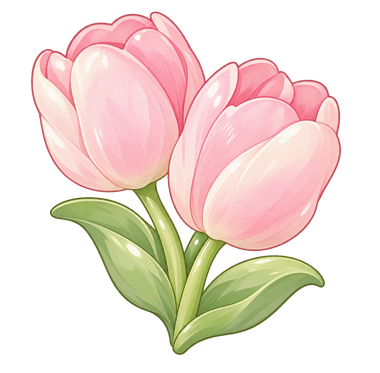
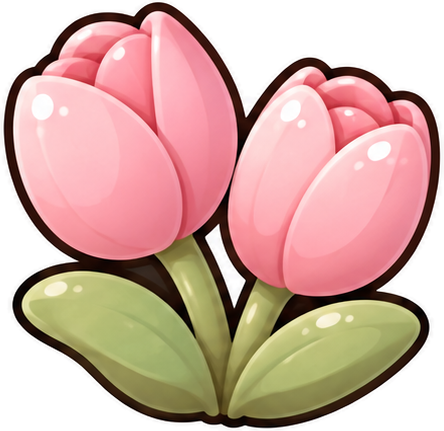
feat(decorations): replace realistic flowers with chibi fondant flower stickers

diff --git a/catalog.js b/catalog.js
@@ -1,1 +1,1 @@
-(function(root){const items={"pinkbase": {"name": "草莓蛋糕胚", "group": "base", "asset": "extras/pinkbase", "section": "base", "size": [360, 184], "gift": 8}, "wholeberry": {"name": "大颗草莓", "group": "decoration", "asset": "extras/wholeberry", "section": "fruit", "size": [65, 78], "gift": 8}, "halfberry": {"name": "半颗草莓", "group": "decoration", "asset": "extras/halfberry", "section": "fruit", "size": [65, 78], "gift": 8}, "slices": {"name": "草莓切片", "group": "decoration", "asset": "extras/slices", "section": "fruit", "size": [72, 70], "gift": 8}, "blueberry": {"name": "蓝莓", "group": "decoration", "asset": "extras/blueberry", "section": "fruit", "size": [72, 70], "gift": 8}, "raspberry": {"name": "树莓", "group": "decoration", "asset": "extras/raspberry", "section": "fruit", "size": [72, 70], "gift": 8}, "cherry": {"name": "樱桃", "group": "decoration", "asset": "extras/cherry", "section": "fruit", "size": [72, 70], "gift": 8}, "mango": {"name": "芒果块", "group": "decoration", "asset": "extras/mango", "section": "fruit", "size": [72, 70], "gift": 8}, "kiwi": {"name": "猕猴桃", "group": "decoration", "asset": "extras/kiwi", "section": "fruit", "size": [72, 70], "gift": 8}, "orange": {"name": "橙片", "group": "decoration", "asset": "extras/orange", "section": "fruit", "size": [72, 70], "gift": 8}, "banana": {"name": "香蕉片", "group": "decoration", "asset": "extras/banana", "section": "fruit", "size": [72, 70], "gift": 8}, "grape": {"name": "青提", "group": "decoration", "asset": "extras/grape", "section": "fruit", "size": [72, 70], "gift": 8}, "peach": {"name": "蜜桃片", "group": "decoration", "asset": "extras/peach", "section": "fruit", "size": [72, 70], "gift": 8}, "fruitpile": {"name": "缤纷水果堆", "group": "decoration", "asset": "extras/fruitpile", "section": "fruit", "size": [120, 72], "gift": 8}, "mintleaf": {"name": "薄荷叶", "group": "decoration", "asset": "extras/mintleaf", "section": "fruit", "size": [61, 38], "gift": 8}, "cookie-disc": {"name": "圆饼干", "group": "decoration", "asset": "extras/cookie-disc", "section": "sweet", "size": [72, 57], "gift": 8}, "choco-pieces": {"name": "巧克力块组", "group": "decoration", "asset": "extras/choco-pieces", "section": "sweet", "size": [75, 54], "gift": 8}, "choco-curl": {"name": "巧克力卷", "group": "decoration", "asset": "extras/choco-curl", "section": "sweet", "size": [72, 57], "gift": 8}, "wafer": {"name": "威化卷", "group": "decoration", "asset": "extras/wafer", "section": "sweet", "size": [88, 47], "gift": 8}, "macaron": {"name": "草莓马卡龙", "group": "decoration", "asset": "extras/macaron", "section": "sweet", "size": [74, 61], "gift": 8}, "bearcookie": {"name": "小熊饼干", "group": "decoration", "asset": "extras/bearcookie", "section": "sweet", "size": [64, 64], "gift": 8}, "bunnycookie": {"name": "小兔饼干", "group": "decoration", "asset": "extras/bunnycookie", "section": "sweet", "size": [58, 76], "gift": 8}, "heart": {"name": "爱心糖片", "group": "decoration", "asset": "extras/heart", "section": "sweet", "size": [50, 42], "gift": 8}, "star": {"name": "星星糖片", "group": "decoration", "asset": "extras/star", "section": "sweet", "size": [50, 45], "gift": 8}, "sprinkles": {"name": "彩色糖针", "group": "decoration", "asset": "extras/sprinkles", "section": "sweet", "size": [72, 39], "gift": 8}, "silverpearls": {"name": "银色糖珠", "group": "decoration", "asset": "extras/silverpearls", "section": "sweet", "size": [58, 42], "gift": 8}, "daisy": {"name": "雏菊糖花", "group": "decoration", "asset": "extras/daisy", "section": "sweet", "size": [57, 57], "gift": 8}, "sakura": {"name": "樱花糖片", "group": "decoration", "asset": "extras/sakura", "section": "sweet", "size": [57, 53], "gift": 8}, "bow": {"name": "粉色蝴蝶结", "group": "decoration", "asset": "extras/bow", "section": "sweet", "size": [73, 46], "gift": 8}, "catcandle": {"name": "猫猫蜡烛", "group": "decoration", "asset": "extras/catcandle", "section": "special", "size": [80, 124], "gift": 4}, "silvercatcandle": {"name": "银发猫猫蜡烛", "group": "decoration", "asset": "extras/silvercatcandle", "section": "special", "size": [112, 146], "gift": 4}, "twincandle": {"name": "蓝缎双烛", "group": "decoration", "asset": "extras/twincandle", "section": "special", "size": [88, 133], "gift": 4}, "pawtopper": {"name": "猫爪插牌", "group": "decoration", "asset": "extras/pawtopper", "section": "special", "size": [71, 94], "gift": 4}, "acorn": {"name": "橡果插牌", "group": "decoration", "asset": "extras/acorn", "section": "special", "size": [61, 104], "gift": 4}, "bowcharm": {"name": "白色缎带挂饰", "group": "decoration", "asset": "extras/bowcharm", "section": "special", "size": [64, 103], "gift": 4}, "catdessert": {"name": "猫猫布丁", "group": "decoration", "asset": "extras/catdessert", "section": "special", "size": [77, 85], "gift": 4}, "otter": {"name": "小水獭插牌", "group": "decoration", "asset": "extras/otter", "section": "special", "size": [70, 101], "gift": 4}, "kitten": {"name": "小橘猫插牌", "group": "decoration", "asset": "extras/kitten", "section": "special", "size": [78, 103], "gift": 4}, "sweet-sign": {"name": "甜蜜巧克力牌", "group": "decoration", "asset": "extras/sweet-sign", "section": "special", "size": [80, 87], "gift": 4}, "cream-swirl": {"name": "香草奶油尖", "group": "decoration", "asset": "extras/cream-swirl", "section": "piped", "size": [57, 56], "gift": 8}, "cream-star": {"name": "草莓星花", "group": "decoration", "asset": "extras/cream-star", "section": "piped", "size": [57, 54], "gift": 8}, "cream-shells": {"name": "贝壳花边", "group": "decoration", "asset": "extras/cream-shells", "section": "piped", "size": [92, 44], "gift": 8}, "cream-rose": {"name": "粉色玫瑰", "group": "decoration", "asset": "extras/cream-rose", "section": "piped", "size": [58, 56], "gift": 8}, "cream-leafstar": {"name": "抹茶星花", "group": "decoration", "asset": "extras/cream-leafstar", "section": "piped", "size": [55, 52], "gift": 8}, "cream-leaves": {"name": "奶油叶片", "group": "decoration", "asset": "extras/cream-leaves", "section": "piped", "size": [65, 43], "gift": 8}, "cream-wave": {"name": "紫色波浪", "group": "decoration", "asset": "extras/cream-wave", "section": "piped", "size": [94, 37], "gift": 8}, "choco-drop": {"name": "巧克力水滴", "group": "decoration", "asset": "extras/choco-drop", "section": "piped", "size": [45, 60], "gift": 8}, "cream-rope": {"name": "香草麻花", "group": "decoration", "asset": "extras/cream-rope", "section": "piped", "size": [95, 37], "gift": 8}, "cream-flower": {"name": "紫色奶油花", "group": "decoration", "asset": "extras/cream-flower", "section": "piped", "size": [55, 50], "gift": 8}, "bluefill": {"name": "蓝莓果肉夹心", "group": "filling", "asset": "extras/bowl-blueberry", "gift": 8}, "mangofill": {"name": "芒果块夹心", "group": "filling", "asset": "extras/bowl-mango", "gift": 8}, "beanfill": {"name": "蜜红豆夹心", "group": "filling", "asset": "extras/bowl-redbean", "gift": 8}, "capybara-candle": {"name": "水豚橘子蜡烛", "group": "decoration", "asset": "extras/capybara-candle", "section": "special", "size": [80, 100], "gift": 8}, "catpaw-macaron": {"name": "猫爪双色马卡龙", "group": "decoration", "asset": "extras/catpaw-macaron", "section": "sweet", "size": [74, 74], "gift": 8}, "rainbow-cloud": {"name": "彩虹云朵蜡烛", "group": "decoration", "asset": "extras/rainbow-cloud", "section": "special", "size": [80, 102], "gift": 8}, "twin-cherries": {"name": "连枝双子红樱桃", "group": "decoration", "asset": "extras/twin-cherries", "section": "fruit", "size": [74, 83], "gift": 8}, "caramel-bear": {"name": "焦糖小熊曲奇", "group": "decoration", "asset": "extras/caramel-bear", "section": "sweet", "size": [78, 70], "gift": 8}, "bunting-banner": {"name": "迷你三角拉旗插签", "group": "decoration", "asset": "extras/bunting-banner", "section": "special", "size": [96, 99], "gift": 8}, "pearl-tiara": {"name": "珍珠小皇冠", "group": "decoration", "asset": "extras/pearl-tiara", "section": "special", "size": [84, 70], "gift": 8}, "balloon-bunch": {"name": "马卡龙气球束", "group": "decoration", "asset": "extras/balloon-bunch", "section": "special", "size": [74, 100], "gift": 8}, "lion-dance": {"name": "萌萌小醒狮", "group": "decoration", "asset": "extras/lion-dance", "section": "special", "size": [82, 86], "gift": 8}, "gold-ingot": {"name": "发财金元宝", "group": "decoration", "asset": "extras/gold-ingot", "section": "sweet", "size": [82, 58], "gift": 8}, "lotus-blossom": {"name": "粉白小荷花", "group": "decoration", "asset": "extras/lotus-blossom", "section": "special", "size": [80, 68], "gift": 8}, "koi-fish": {"name": "萌萌小锦鲤", "group": "decoration", "asset": "extras/koi-fish", "section": "sweet", "size": [86, 70], "gift": 8}, "daisy-cluster": {"name": "白雏菊小花簇", "group": "decoration", "asset": "extras/daisy-cluster", "section": "sweet", "size": [82, 83], "gift": 8}, "pink-rose-cluster": {"name": "粉玫瑰花团", "group": "decoration", "asset": "extras/pink-rose-cluster", "section": "sweet", "size": [84, 84], "gift": 8}, "champagne-rose": {"name": "香槟白玫瑰束", "group": "decoration", "asset": "extras/champagne-rose", "section": "sweet", "size": [84, 83], "gift": 8}, "twin-tulips": {"name": "双生粉郁金香", "group": "decoration", "asset": "extras/twin-tulips", "section": "sweet", "size": [78, 76], "gift": 8}, "blue-hydrangea": {"name": "梦幻蓝紫绣球花", "group": "decoration", "asset": "extras/blue-hydrangea", "section": "sweet", "size": [84, 82], "gift": 8}, "babys-breath": {"name": "满天星丝带花束", "group": "decoration", "asset": "extras/babys-breath", "section": "sweet", "size": [80, 81], "gift": 8}, "eucalyptus-branch": {"name": "尤加利绿叶枝", "group": "decoration", "asset": "extras/eucalyptus-branch", "section": "fruit", "size": [76, 78], "gift": 8}, "rose-daisy-swag": {"name": "玫瑰雏菊角花堆", "group": "decoration", "asset": "extras/rose-daisy-swag", "section": "sweet", "size": [86, 84], "gift": 8}, "half-wreath": {"name": "半月形花环围边", "group": "decoration", "asset": "extras/half-wreath", "section": "sweet", "size": [110, 80], "gift": 8}, "cascading-sakura": {"name": "悬垂粉樱花蔓", "group": "decoration", "asset": "extras/cascading-sakura", "section": "sweet", "size": [74, 102], "gift": 8}};if(typeof module==='object')module.exports=items;else root.CakeExtras=items;})(globalThis);
+(function(root){const items={"pinkbase": {"name": "草莓蛋糕胚", "group": "base", "asset": "extras/pinkbase", "section": "base", "size": [360, 184], "gift": 8}, "wholeberry": {"name": "大颗草莓", "group": "decoration", "asset": "extras/wholeberry", "section": "fruit", "size": [65, 78], "gift": 8}, "halfberry": {"name": "半颗草莓", "group": "decoration", "asset": "extras/halfberry", "section": "fruit", "size": [65, 78], "gift": 8}, "slices": {"name": "草莓切片", "group": "decoration", "asset": "extras/slices", "section": "fruit", "size": [72, 70], "gift": 8}, "blueberry": {"name": "蓝莓", "group": "decoration", "asset": "extras/blueberry", "section": "fruit", "size": [72, 70], "gift": 8}, "raspberry": {"name": "树莓", "group": "decoration", "asset": "extras/raspberry", "section": "fruit", "size": [72, 70], "gift": 8}, "cherry": {"name": "樱桃", "group": "decoration", "asset": "extras/cherry", "section": "fruit", "size": [72, 70], "gift": 8}, "mango": {"name": "芒果块", "group": "decoration", "asset": "extras/mango", "section": "fruit", "size": [72, 70], "gift": 8}, "kiwi": {"name": "猕猴桃", "group": "decoration", "asset": "extras/kiwi", "section": "fruit", "size": [72, 70], "gift": 8}, "orange": {"name": "橙片", "group": "decoration", "asset": "extras/orange", "section": "fruit", "size": [72, 70], "gift": 8}, "banana": {"name": "香蕉片", "group": "decoration", "asset": "extras/banana", "section": "fruit", "size": [72, 70], "gift": 8}, "grape": {"name": "青提", "group": "decoration", "asset": "extras/grape", "section": "fruit", "size": [72, 70], "gift": 8}, "peach": {"name": "蜜桃片", "group": "decoration", "asset": "extras/peach", "section": "fruit", "size": [72, 70], "gift": 8}, "fruitpile": {"name": "缤纷水果堆", "group": "decoration", "asset": "extras/fruitpile", "section": "fruit", "size": [120, 72], "gift": 8}, "mintleaf": {"name": "薄荷叶", "group": "decoration", "asset": "extras/mintleaf", "section": "fruit", "size": [61, 38], "gift": 8}, "cookie-disc": {"name": "圆饼干", "group": "decoration", "asset": "extras/cookie-disc", "section": "sweet", "size": [72, 57], "gift": 8}, "choco-pieces": {"name": "巧克力块组", "group": "decoration", "asset": "extras/choco-pieces", "section": "sweet", "size": [75, 54], "gift": 8}, "choco-curl": {"name": "巧克力卷", "group": "decoration", "asset": "extras/choco-curl", "section": "sweet", "size": [72, 57], "gift": 8}, "wafer": {"name": "威化卷", "group": "decoration", "asset": "extras/wafer", "section": "sweet", "size": [88, 47], "gift": 8}, "macaron": {"name": "草莓马卡龙", "group": "decoration", "asset": "extras/macaron", "section": "sweet", "size": [74, 61], "gift": 8}, "bearcookie": {"name": "小熊饼干", "group": "decoration", "asset": "extras/bearcookie", "section": "sweet", "size": [64, 64], "gift": 8}, "bunnycookie": {"name": "小兔饼干", "group": "decoration", "asset": "extras/bunnycookie", "section": "sweet", "size": [58, 76], "gift": 8}, "heart": {"name": "爱心糖片", "group": "decoration", "asset": "extras/heart", "section": "sweet", "size": [50, 42], "gift": 8}, "star": {"name": "星星糖片", "group": "decoration", "asset": "extras/star", "section": "sweet", "size": [50, 45], "gift": 8}, "sprinkles": {"name": "彩色糖针", "group": "decoration", "asset": "extras/sprinkles", "section": "sweet", "size": [72, 39], "gift": 8}, "silverpearls": {"name": "银色糖珠", "group": "decoration", "asset": "extras/silverpearls", "section": "sweet", "size": [58, 42], "gift": 8}, "daisy": {"name": "雏菊糖花", "group": "decoration", "asset": "extras/daisy", "section": "sweet", "size": [57, 57], "gift": 8}, "sakura": {"name": "樱花糖片", "group": "decoration", "asset": "extras/sakura", "section": "sweet", "size": [57, 53], "gift": 8}, "bow": {"name": "粉色蝴蝶结", "group": "decoration", "asset": "extras/bow", "section": "sweet", "size": [73, 46], "gift": 8}, "catcandle": {"name": "猫猫蜡烛", "group": "decoration", "asset": "extras/catcandle", "section": "special", "size": [80, 124], "gift": 4}, "silvercatcandle": {"name": "银发猫猫蜡烛", "group": "decoration", "asset": "extras/silvercatcandle", "section": "special", "size": [112, 146], "gift": 4}, "twincandle": {"name": "蓝缎双烛", "group": "decoration", "asset": "extras/twincandle", "section": "special", "size": [88, 133], "gift": 4}, "pawtopper": {"name": "猫爪插牌", "group": "decoration", "asset": "extras/pawtopper", "section": "special", "size": [71, 94], "gift": 4}, "acorn": {"name": "橡果插牌", "group": "decoration", "asset": "extras/acorn", "section": "special", "size": [61, 104], "gift": 4}, "bowcharm": {"name": "白色缎带挂饰", "group": "decoration", "asset": "extras/bowcharm", "section": "special", "size": [64, 103], "gift": 4}, "catdessert": {"name": "猫猫布丁", "group": "decoration", "asset": "extras/catdessert", "section": "special", "size": [77, 85], "gift": 4}, "otter": {"name": "小水獭插牌", "group": "decoration", "asset": "extras/otter", "section": "special", "size": [70, 101], "gift": 4}, "kitten": {"name": "小橘猫插牌", "group": "decoration", "asset": "extras/kitten", "section": "special", "size": [78, 103], "gift": 4}, "sweet-sign": {"name": "甜蜜巧克力牌", "group": "decoration", "asset": "extras/sweet-sign", "section": "special", "size": [80, 87], "gift": 4}, "cream-swirl": {"name": "香草奶油尖", "group": "decoration", "asset": "extras/cream-swirl", "section": "piped", "size": [57, 56], "gift": 8}, "cream-star": {"name": "草莓星花", "group": "decoration", "asset": "extras/cream-star", "section": "piped", "size": [57, 54], "gift": 8}, "cream-shells": {"name": "贝壳花边", "group": "decoration", "asset": "extras/cream-shells", "section": "piped", "size": [92, 44], "gift": 8}, "cream-rose": {"name": "粉色玫瑰", "group": "decoration", "asset": "extras/cream-rose", "section": "piped", "size": [58, 56], "gift": 8}, "cream-leafstar": {"name": "抹茶星花", "group": "decoration", "asset": "extras/cream-leafstar", "section": "piped", "size": [55, 52], "gift": 8}, "cream-leaves": {"name": "奶油叶片", "group": "decoration", "asset": "extras/cream-leaves", "section": "piped", "size": [65, 43], "gift": 8}, "cream-wave": {"name": "紫色波浪", "group": "decoration", "asset": "extras/cream-wave", "section": "piped", "size": [94, 37], "gift": 8}, "choco-drop": {"name": "巧克力水滴", "group": "decoration", "asset": "extras/choco-drop", "section": "piped", "size": [45, 60], "gift": 8}, "cream-rope": {"name": "香草麻花", "group": "decoration", "asset": "extras/cream-rope", "section": "piped", "size": [95, 37], "gift": 8}, "cream-flower": {"name": "紫色奶油花", "group": "decoration", "asset": "extras/cream-flower", "section": "piped", "size": [55, 50], "gift": 8}, "bluefill": {"name": "蓝莓果肉夹心", "group": "filling", "asset": "extras/bowl-blueberry", "gift": 8}, "mangofill": {"name": "芒果块夹心", "group": "filling", "asset": "extras/bowl-mango", "gift": 8}, "beanfill": {"name": "蜜红豆夹心", "group": "filling", "asset": "extras/bowl-redbean", "gift": 8}, "capybara-candle": {"name": "水豚橘子蜡烛", "group": "decoration", "asset": "extras/capybara-candle", "section": "special", "size": [80, 100], "gift": 8}, "catpaw-macaron": {"name": "猫爪双色马卡龙", "group": "decoration", "asset": "extras/catpaw-macaron", "section": "sweet", "size": [74, 74], "gift": 8}, "rainbow-cloud": {"name": "彩虹云朵蜡烛", "group": "decoration", "asset": "extras/rainbow-cloud", "section": "special", "size": [80, 102], "gift": 8}, "twin-cherries": {"name": "连枝双子红樱桃", "group": "decoration", "asset": "extras/twin-cherries", "section": "fruit", "size": [74, 83], "gift": 8}, "caramel-bear": {"name": "焦糖小熊曲奇", "group": "decoration", "asset": "extras/caramel-bear", "section": "sweet", "size": [78, 70], "gift": 8}, "bunting-banner": {"name": "迷你三角拉旗插签", "group": "decoration", "asset": "extras/bunting-banner", "section": "special", "size": [96, 99], "gift": 8}, "pearl-tiara": {"name": "珍珠小皇冠", "group": "decoration", "asset": "extras/pearl-tiara", "section": "special", "size": [84, 70], "gift": 8}, "balloon-bunch": {"name": "马卡龙气球束", "group": "decoration", "asset": "extras/balloon-bunch", "section": "special", "size": [74, 100], "gift": 8}, "lion-dance": {"name": "萌萌小醒狮", "group": "decoration", "asset": "extras/lion-dance", "section": "special", "size": [82, 86], "gift": 8}, "gold-ingot": {"name": "发财金元宝", "group": "decoration", "asset": "extras/gold-ingot", "section": "sweet", "size": [82, 58], "gift": 8}, "lotus-blossom": {"name": "粉白小荷花", "group": "decoration", "asset": "extras/lotus-blossom", "section": "special", "size": [80, 68], "gift": 8}, "koi-fish": {"name": "萌萌小锦鲤", "group": "decoration", "asset": "extras/koi-fish", "section": "sweet", "size": [86, 70], "gift": 8}, "twin-tulips": {"name": "双生粉郁金香", "group": "decoration", "asset": "extras/twin-tulips", "section": "sweet", "size": [78, 76], "gift": 8}, "blue-hydrangea": {"name": "梦幻蓝绣球", "group": "decoration", "asset": "extras/blue-hydrangea", "section": "sweet", "size": [82, 78], "gift": 8}, "eucalyptus-branch": {"name": "尤加利叶小枝", "group": "decoration", "asset": "extras/eucalyptus-branch", "section": "fruit", "size": [76, 76], "gift": 8}, "rose-candy": {"name": "糖霜粉玫瑰", "group": "decoration", "asset": "extras/rose-candy", "section": "sweet", "size": [76, 68], "gift": 8}, "daisy-candy": {"name": "萌萌圆雏菊", "group": "decoration", "asset": "extras/daisy-candy", "section": "sweet", "size": [58, 55], "gift": 8}};if(typeof module==='object')module.exports=items;else root.CakeExtras=items;})(globalThis);
